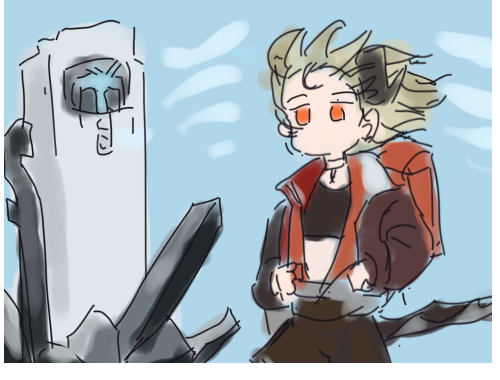
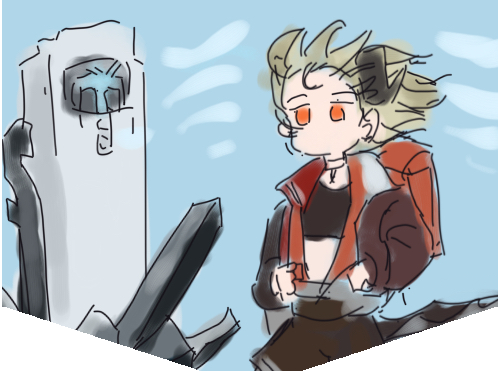
高效制冷模块M卡图 & 教程文案修复

Changed region(s): [[0.66, 0.0, 1.0, 0.9553], [0.0, 0.0, 0.36, 0.9553], [0.36, 0.9553, 0.66, 0.9842]]

diff --git a/src/main/java/rhinemod/cards/HighEfficiencyFreezingModule.java b/src/main/java/rhinemod/cards/HighEfficiencyFreezingModule.java
@@ -24,6 +24,7 @@ public class HighEfficiencyFreezingModule extends AbstractRhineCard {
     public static final String DESCRIPTION = cardStrings.DESCRIPTION;
     public static final String[] EXTENDED_DESCRIPTION = cardStrings.EXTENDED_DESCRIPTION;
     public static final String IMG = "resources/rhinemod/images/cards/HighEfficiencyFreezingModule.png";
+    public static final String IMG_M = "resources/rhinemod/images/cards/HighEfficiencyFreezingModuleM.png";
     public static final int COST = 1;
     public static final int DAMAGE_AMT = 7;
     public static final int EXTRA_DMG = 10;
@@ -101,7 +102,8 @@ public class HighEfficiencyFreezingModule extends AbstractRhineCard {
                 if (!upgraded) {
                     upgradeName(3);
                     type = CardType.SKILL;
-                    //TODO: 大概要改图，你看着改.jpg
+                    textureImg = IMG_M;
+                    loadCardImage(textureImg);
                     magicNumber = baseMagicNumber = WATER_AMT;
                     rawDescription = EXTENDED_DESCRIPTION[0];
                     initializeDescription();
